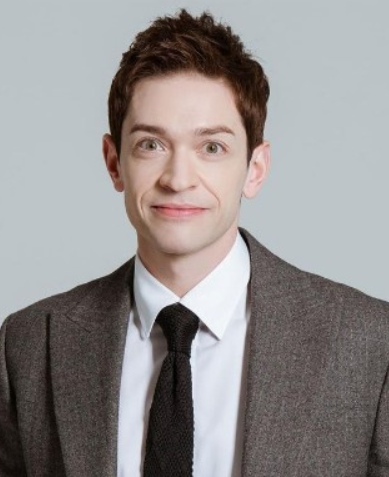
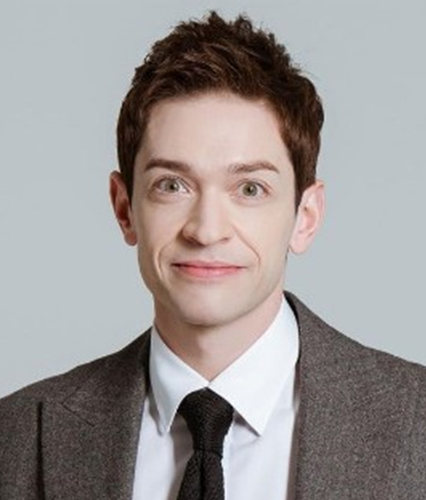
세션이미지폭넓힘, 포레스텔라이름넣기

diff --git a/src/app/ceremony/page.tsx b/src/app/ceremony/page.tsx
@@ -177,8 +177,8 @@ export default function Ceremony() {
                     </div>
                     <div className="info">
                         <div className="info__big-title">축하공연</div>
-                        <div className="info__title theme-color-t">통일부-불후의명곡</div>
-                        {/*<div className="info__subtitle">통일부-불후의명곡‘ 평화가온다’ 편우승</div>*/}
+                        <div className="info__title theme-color-t">크로스오버그룹 ‘포레스텔라’</div>
+                        <div className="info__subtitle">통일부-불후의명곡</div>
                         {/*<Image*/}
                         {/*    className={'w-full'}*/}
                         {/*    src={'/images/포레스텔라.png'}*/}

diff --git a/src/app/_components/SessionInfo/SessionInfo.tsx b/src/app/_components/SessionInfo/SessionInfo.tsx
@@ -38,8 +38,8 @@ export default function SessionInfo({
                             <div className="speaker-photo">
                                 <Image src={speaker.photo}
                                        alt={speaker.name}
-                                       width={300}
-                                       height={400}
+                                       width={255}
+                                       height={333}
                                 />
                             </div>
                             <div className="speaker-name">{speaker.name}<span

diff --git a/src/app/_components/SessionInfo/SessionInfo.scss b/src/app/_components/SessionInfo/SessionInfo.scss
@@ -41,15 +41,15 @@
         border-radius: 8px;
         box-shadow: 0 2px 4px rgba(0, 0, 0, 0.1);
         margin-bottom: 20px;
-        max-width: 200px;
+        max-width: 300px;
 
         .speaker-photo {
             border-radius: 8px;
             overflow: hidden;
 
             img {
-                width: 170px;
-                height: 250px;
+                width: 250px;
+                height: 330px;
             }
         }
 

diff --git a/src/app/layout.tsx b/src/app/layout.tsx
@@ -4,7 +4,6 @@ import Footer from "@/app/_components/Footer/Footer";
 import Header from "@/app/_components/Header/Header";
 import type {Metadata} from "next";
 import {Inter} from "next/font/google";
-import "./globals.css";
 import "../assets/style/tailwind/index.css"
 import "../assets/style/scss/index.scss"
 import {Suspense} from "react";
